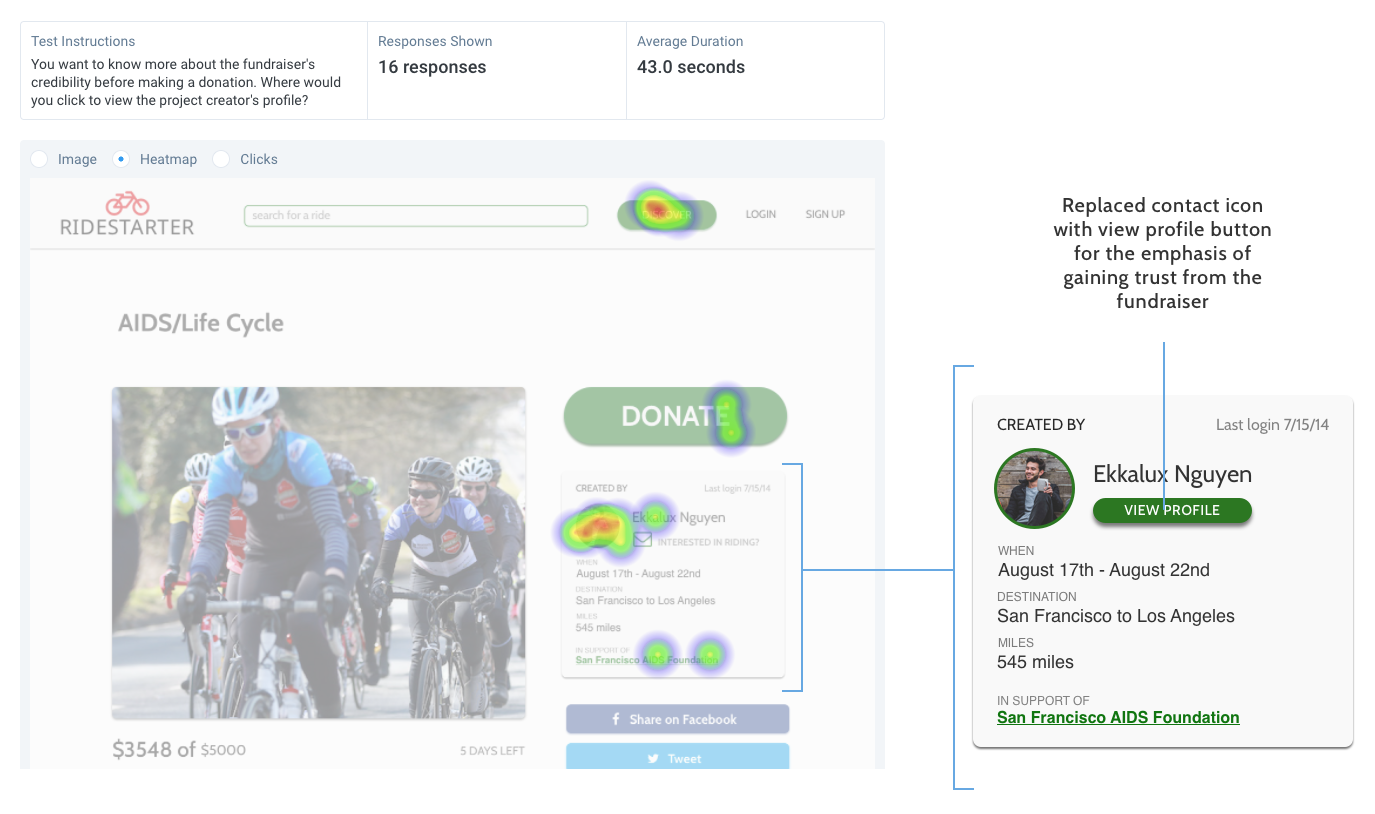
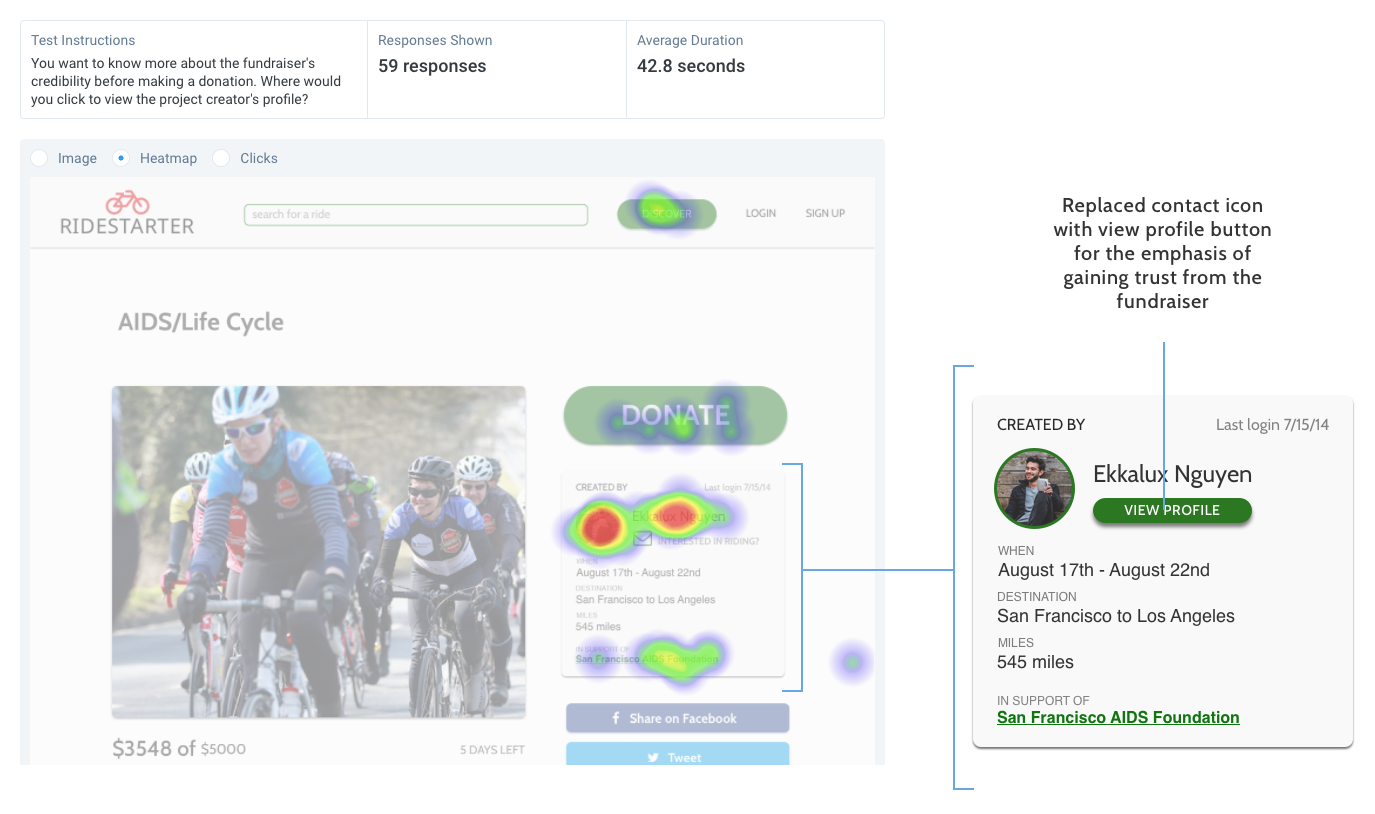
revision

diff --git a/gym.html b/gym.html
@@ -139,7 +139,7 @@
 
         <img src="images/gymseeker/survey_findings.png">
 
-        <p> With the discoveries I found through my survey, I was able to uncover the users' goals and pain points.
+        <p> <strong>Data Insights: </strong>With the discoveries I found through my survey, I was able to uncover the users' goals and pain points.
           It was clear that the main frustration with gyming has to do with convenience and time. With that said,
            I wanted to ease the users' pain in finding a gym by providing
            them with essential gym elements such as price, location, and amenities.
@@ -162,23 +162,17 @@
     <h1> RUNNING THROUGH THE DESIGN CHOICES </h1>
 
     <div class="user_flow">
-      <p><strong>Information Architecture:</strong> After getting a better insight of my users, I could move foward on user stories and user flows.
-      Basing off from the research, I created user stories and made four user flows that are essential to crafting the important features and screens for
+    <p><strong>Site Map:</strong> After getting a better insight of the users, I could move on to create information architecture. To plan out
+    the structure of Gymseeker, I created a sitemap to use as a reference point for the creation of wireframes and functional specifications.  </p>
+    <img src="images/gymseeker/sitemap.png">
+
+    <p><strong>User Flow:</strong> Based from the research, I also created user stories and made four user flows that are essential to crafting the important features and screens for
     Gymseeker. <a href="https://docs.google.com/spreadsheets/d/123lRp0UdWpR_rVzesVuoIFh29WfpIlTxFjVp7_xMhrc/edit?usp=sharing" target="_blank">
     <b> Click here to view the user stories. </b> </a> </p>
 
       <img src="images/gymseeker/user_flow.png">
     </div>
 
-    <div class="branding">
-      <p><strong>Creating the Brand Identity: </strong> To build the product's brand, I started off with a mind map to branch off my ideas for a logo design.
-        Since the goal is to inspire users to achieve their fitness goals, Gymseeker needed a color palette and a logo that would evoke a feeling of energy and
-        motivation. Yellow and orange first came to mind, but I chose the color blue for its feeling prowess and strengths.
-      </p>
-      <img src="images/gymseeker/mind.jpg">
-      <img src="images/gymseeker/brand.png">
-
-    </div>
 
     <div class="low">
       <p><strong> Low-Fidelity Wireframes: </strong>With the completed user stories and user flows, I created low-fidelity mockups on Balsamiq and then transfered it to clickable
@@ -187,6 +181,15 @@
       are some of the initial sketches: </p>
 
       <img src="images/gymseeker/low.png">
+    </div>
+
+    <div class="branding">
+      <p><strong>Creating the Brand Identity: </strong> To build the product's brand, I started off with a mind map to branch off my ideas for a logo design.
+        Since the goal is to inspire users to achieve their fitness goals, Gymseeker needed a color palette and a logo that would evoke a feeling of energy and
+        motivation. Yellow and orange first came to mind, but I chose the color blue for its feeling of prowess and strengths.
+      </p>
+      <img src="images/gymseeker/mind.jpg">
+      <img src="images/gymseeker/brand.png">
     </div>
 
 
@@ -261,7 +264,7 @@
     <div id="conclusion_container">
     <h1><span class="underline_black"> CONCLUSION</span></h1>
     <p> Gymseeker is a project that I am particularly passionate about.
-      As a fitness enthusiast who frequent the weight room, I have only considered
+      As a fitness enthusiast who frequents the weight room, I have only considered
       locating gyms based on what types of equipments a gym has in their
       weight room. With Gymseeker, users are presented with a holistic detail of a gym's profile before
       making a commitment to purchasing a membership.  </p>

diff --git a/ridestarter.html b/ridestarter.html
@@ -208,7 +208,8 @@
   <div class="container">
     <h1> GEARING THE DESIGN IMPLEMENTATION </h1>
     <div class="user_testing">
-      <p> <strong>Moderated and Unmoderated Testing: </strong> I recruited 3 participants to . Testing revealed that my design     </p>
+      <p> <strong>Moderated and Unmoderated Testing: </strong> I recruited 3 participants to conduct a moderated user testing and one tester for an unmoderated remote usability testing on usertesting.com.
+         Testing revealed that users were able to intuitively navigate through the process of onboarding and making a donation.   </p>
       <div class="highlights">
         <ul>
           <li> What's your first impression of the homepage? What do you think this website is about? </li>
@@ -220,7 +221,7 @@
 
       <p> <strong> Click Testing: </strong> Disclosing reputation and personal information were important
         for potential donors to empathize with the fundraisers and make a donation. However, I knew I was struggling with users intuitively navigating to the
-        fundraiser's profile page. By gathering more than 20 responses for a click test, my assumption was wrong as majority of testers clicked on the correct element (creator's image).
+        fundraiser's profile page. By gathering more than 50 click test responses, my assumption was wrong as majority of testers clicked on the correct element (creator's image).
         However, I wanted to make the display more obvious for the outliers by adding a small button under the fundraiser's name to view their profile.</p>
 
       <img src="images/ridestarter/click.png">

diff --git a/css/gym.css b/css/gym.css
@@ -245,7 +245,7 @@ a {
 
 .navigation h2 {
   display: inline-block;
-  font-size: 14px;
+  font-size: 12px;
   font-family: 'Yantramanav', sans-serif;
   cursor: pointer;
   letter-spacing: 1;

diff --git a/css/ridestarter.css b/css/ridestarter.css
@@ -246,7 +246,7 @@ a {
 
 .navigation h2 {
   display: inline-block;
-  font-size: 14px;
+  font-size: 12px;
   font-family: 'Yantramanav', sans-serif;
   cursor: pointer;
   letter-spacing: 1;
